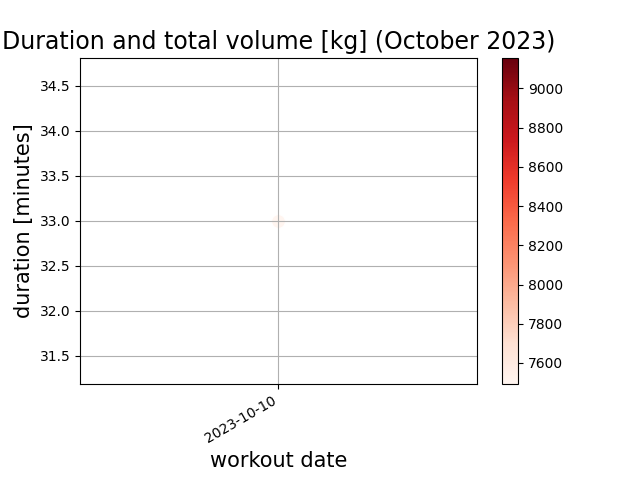
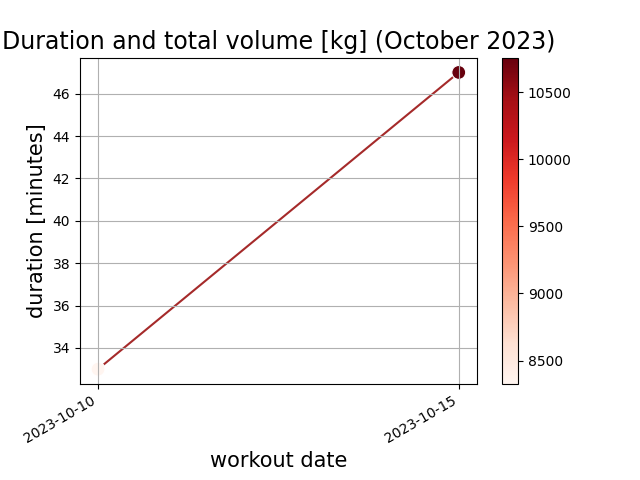
feat: upgrade packages. add today's workout

diff --git a/src/combined_metrics/combined_metrics.py b/src/combined_metrics/combined_metrics.py
@@ -15,6 +15,8 @@ sys.path.append(os.path.dirname(SCRIPT_DIR))
 
 import matplotlib.pyplot as plt  # type: ignore
 import matplotlib.dates as mdates  # type: ignore
+import matplotlib.cm as cm  # type: ignore
+import matplotlib.colors as mcolors  # type: ignore
 import pandas as pd  # type: ignore
 from pprint import pprint as pp
 import seaborn as sns  # type: ignore
@@ -116,8 +118,8 @@ def plot_duration(table, year_to_plot: str, month_to_plot: str) -> None:
     # pp(date_and_duration)
     # pp(date_and_volume)
 
-    norm = plt.Normalize(min(volumes), max(volumes))
-    sm = plt.cm.ScalarMappable(cmap="Reds", norm=norm)
+    norm = mcolors.Normalize(min(volumes), max(volumes))
+    sm = cm.ScalarMappable(cmap="Reds", norm=norm)
     sm.set_array([])
 
     plt.gca().xaxis.set_major_formatter(mdates.DateFormatter("%Y-%m-%d"))
@@ -128,7 +130,8 @@ def plot_duration(table, year_to_plot: str, month_to_plot: str) -> None:
     plt.gcf().autofmt_xdate()
 
     ax.get_legend().remove()
-    ax.figure.colorbar(sm)
+
+    cbar = plt.colorbar(sm, ax=ax)
 
     plt.grid()
     plt.xlabel("workout date", fontsize=15)
